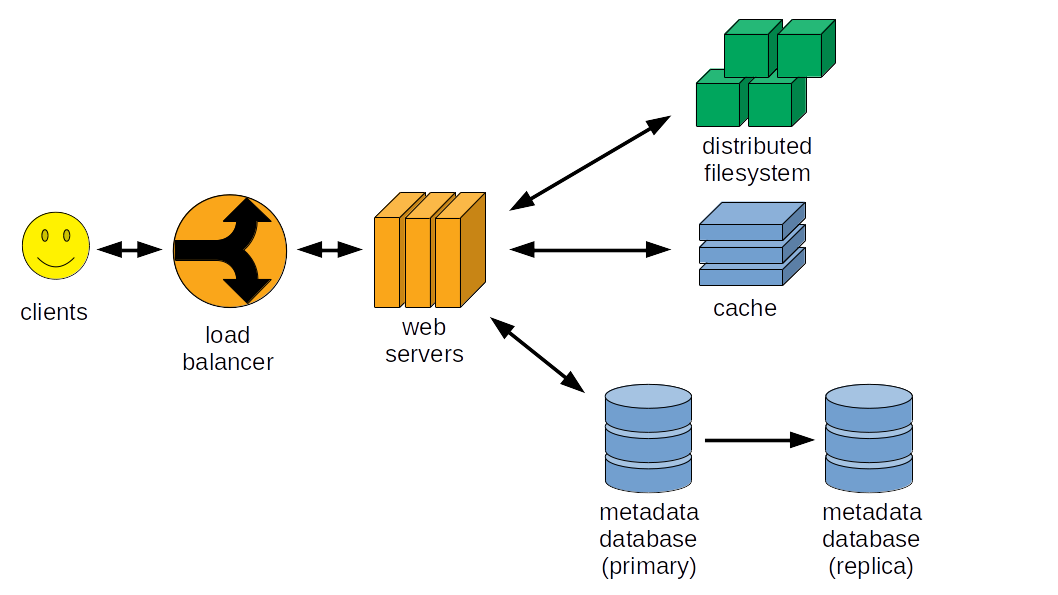
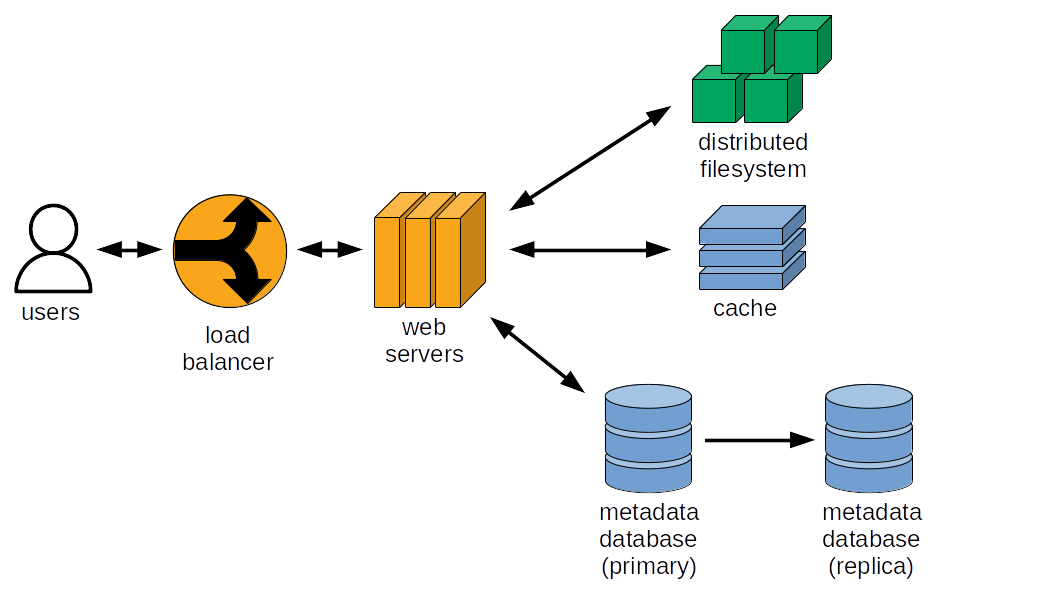
add text deletion details to readme and fix system diagram

diff --git a/pastebin/src/templates/user_texts.html b/pastebin/src/templates/user_texts.html
@@ -36,7 +36,7 @@ app_url }}{{ url_for('get_text', text_id=text['text_id']) }}</a>
     }
   }
 
-  const forms = document.getElementsByClassName("delete-text-form")
+  const forms = document.getElementsByClassName("delete-text-form");
   for (var i = 0; i < forms.length; i++) {
       forms[i].addEventListener("submit", function(e) {
           e.preventDefault();

diff --git a/pastebin/README.md b/pastebin/README.md
@@ -384,9 +384,63 @@ text from the object store and cache results before returning them to the user.
 
 #### 6.1.2.3 Delete a text
 
-Users can delete a text they previously stored by sending a post request and
-including the text ID in the request body. The following snippet is adapted
-from `src/__init__.py`:
+Users can see a list of texts they previously stored on the "My Texts" section
+of the application. For each text, we display a button that allows users to
+delete the text. The following snippet is from `src/template/user_texts.html`:
+
+```html
+{% for text in mytexts %}
+
+<div class="text-item">
+  <ul class="text-item-details">
+    <li class="text-url">
+      <a href="{{ url_for('get_text', text_id=text['text_id']) }}">{{ app_url }}{{ url_for('get_text', text_id="text['text_id']) }}</a>
+    </li>
+    <li class="text-creation">Created on: {{ text['creation'] }}</li>
+    <li class="text-expiration>Expires on: {{text['expiration'] }}</li>
+    <form class="delete-text-form">
+      <input id="text-id" class="text-id-hidden" hidden readonly value="{{ text['text_id'] }}">
+      <input type="submit" class="delete-text" value="Delete text">
+    </form>
+  </ul>
+</div>
+
+<script>
+function deleteText(form) {
+  if (confirm("Do you really want to delete this text?") == true) {
+    var data = new FormData();
+    data.append("text-id", form.querySelector("#text-id").value);
+    const delete_url = {{ url_for("delete_text")|tojson }};
+    fetch(delete_url, {"method": "POST", "body": data}).then(
+      (resp) => { window.location.reload() }
+    );
+  }
+}
+
+const forms = document.getElementsByClassName("delete-text-form");
+for (var i = 0; i < forms.length; i++) {
+  forms[i].addEventListener("submit", function(e) {
+    e.preventDefault();
+    deleteText(e.target);
+  });
+}
+</script>
+
+{% endfor %}
+```
+
+We add an event listener on each form "submit" action, which triggers the
+function `deleteText()`. To prevent users from deleting text by mistake, we use
+the [confirm()](https://developer.mozilla.org/en-US/docs/Web/API/Window/confirm)
+function to control text deletion. Once confirmed, the text ID is obtained from
+the hidden input field identified by `text-id` and sent via a POST request to
+the URL for text deletion with the function
+[fetch](https://developer.mozilla.org/en-US/docs/Web/API/Fetch_API/Using_Fetch).
+We wait for the request to complete with the `then()` method and finally reload
+the page to display the updated list of texts.
+
+The following snippet shows how the request for text deletion is processed,
+and is adapted from `src/__init__.py`:
 
 ```python
 from datetime import datetime
